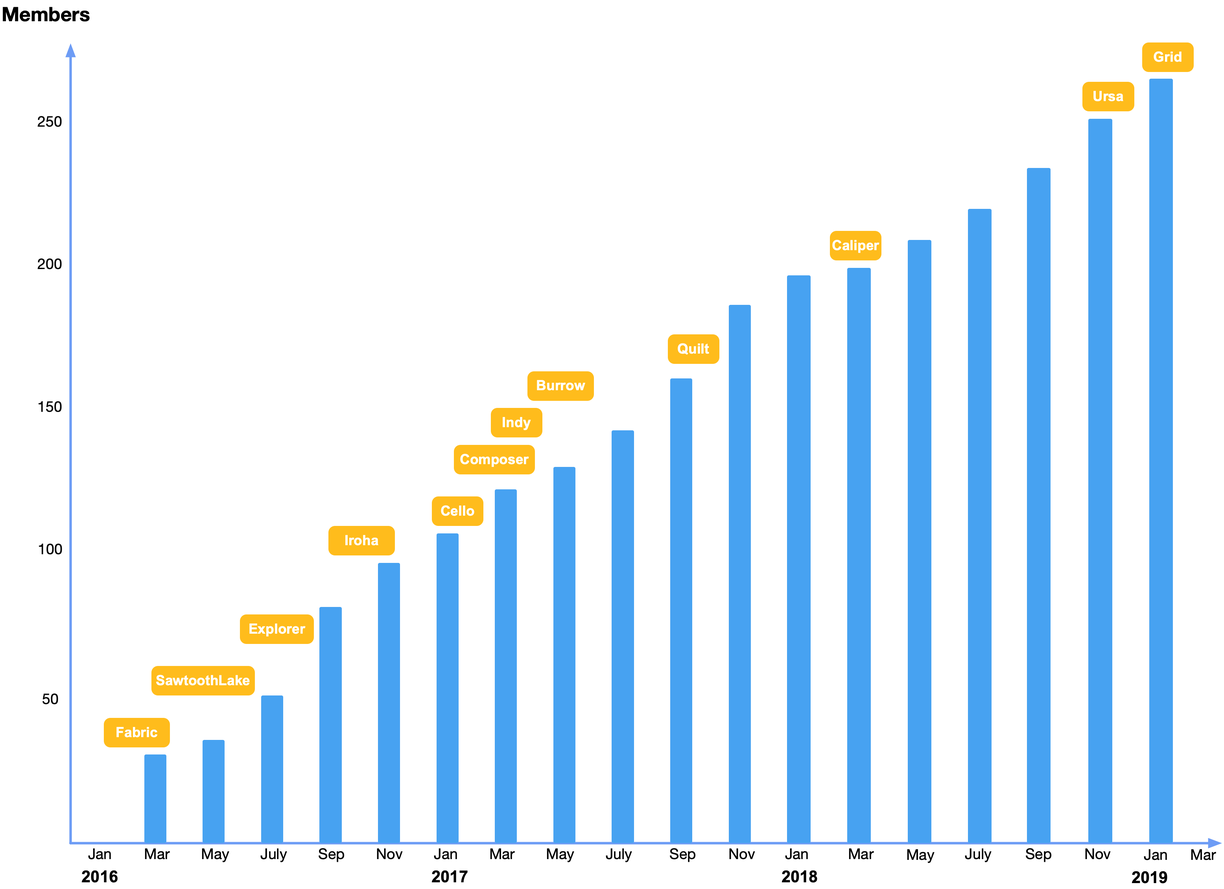
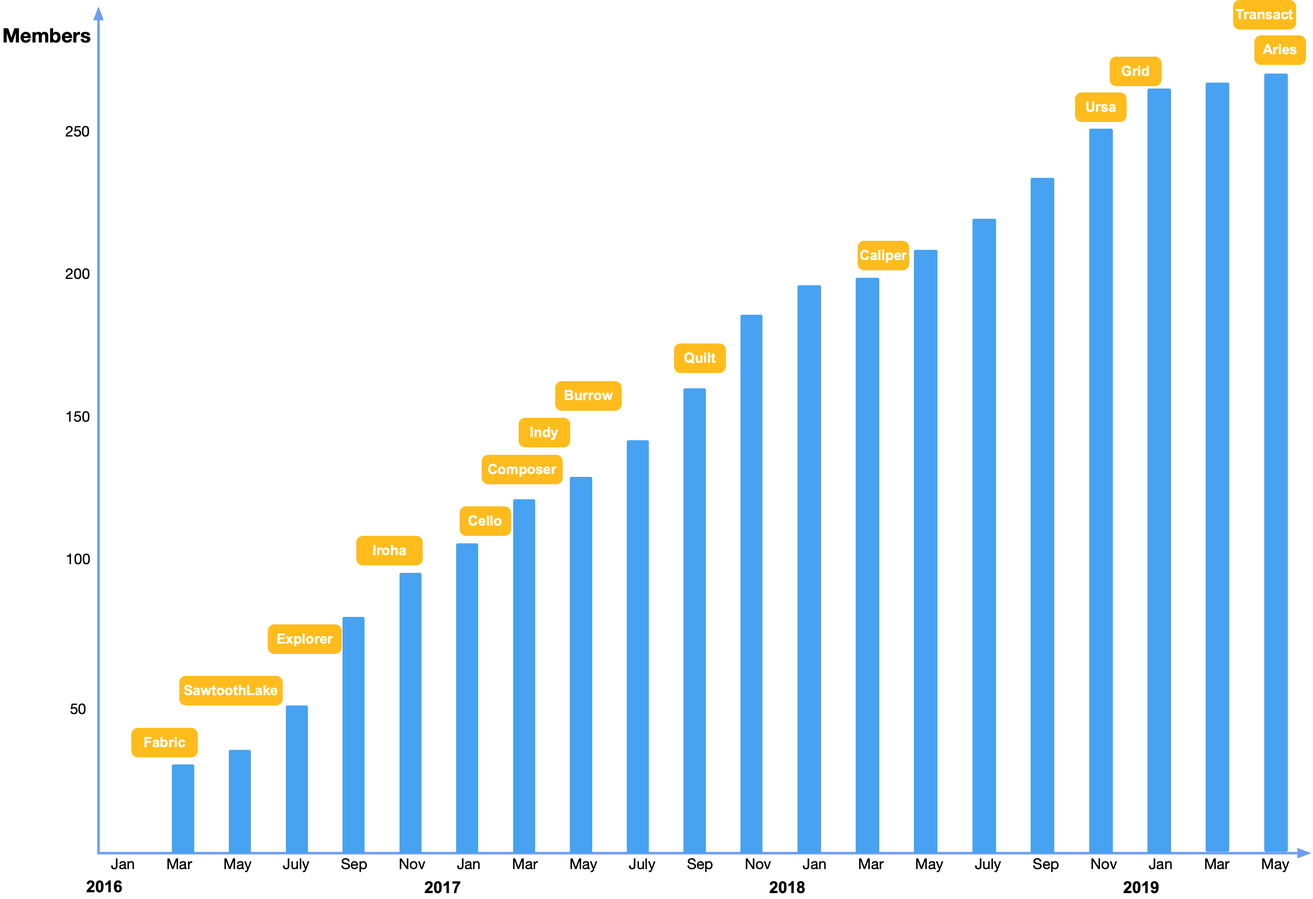
Update hyperledger community and projects

diff --git a/08_hyperledger/contribute.md b/08_hyperledger/contribute.md
@@ -1,54 +1,74 @@
 ## 贡献代码
 
-超级账本的各个子项目，都提供了十分丰富的开发和提交代码的指南和文档，一般可以在代码的 `docs` 目录下找到。部分项目（如 Fabric、Cello 和 Explorer）使用了社区自建的 Gerrit 代码管理和评审方案，其他项目多数直接使用 Github 来管理流程。
+超级账本的各个子项目，都提供了十分丰富的开发和提交代码的指南和文档，一般可以在代码的 `docs` 目录下找到。所有项目都使用 Github 来管理代码和进行集成测试。
 
-这里以 Gerrit 方式为例讲解如何贡献代码到 Fabric 项目。
+这里以 Fabric 项目为例讲解代码贡献流程。
 
 ### 安装环境
 
-推荐在 Linux（如 Ubuntu 18.04+）或 MacOS 环境中开发 Hyperledger 项目代码。
+推荐在 Linux（如 Ubuntu 18.04+）或 macOS 环境中开发 Hyperledger 项目代码。
 
-不同项目会依赖不同的环境，可以从项目文档中找到。以 Fabric 项目为例，开发需要安装如下依赖。
+不同项目会依赖不同的环境，可以从项目文档中找到。以 Fabric 项目为例，开发者需要安装如下依赖。
 
-* Git：用来从 Gerrit 仓库获取代码并进行版本管理。
-* Golang 1.10+：访问 golang.org 进行安装，之后需要配置 `$GOPATH` 环境变量。注意不同项目可能需要不同语言环境。
-* Docker 1.18+：用来支持容器环境，MacOS 下推荐使用 [Docker for Mac](https://docs.docker.com/docker-for-mac)。
+* Git：用来从代码仓库获取代码并进行版本管理；
+* Hub：Github 官方开发的基于 Git 命令的工具，可以替代 Git 命令，更方便操作 Github 仓库；
+* Golang 1.12+：访问 golang.org 进行安装，之后需要配置 `$GOPATH` 环境变量，注意不同项目可能需要不同语言环境；
+* Docker 1.18+：用来支持容器环境，macOS 下推荐使用 [Docker for Mac](https://docs.docker.com/docker-for-mac)。
+
+如果是首次使用 Git，可能还会提示配置默认的用户名和 Email 地址等信息。通过如下命令进行简单配置即可：
+
+```bash
+$ git config user.name "Your name"
+$ git config user.email "Your-addr@some-email-server"
+```
+
+安装 hub 工具，方便与 Github 的仓库进行交互。
+
+Linux 下可以直接从 https://github.com/github/hub/releases 下载工具使用。
+
+macOS 下可以通过 homebrew 工具来安装：
+
+```bash
+$ brew install hub
+```
 
 ### 获取代码
 
-首先注册 Linux Foundation ID（LF ID），如果没有可以到 https://identity.linuxfoundation.org/ 进行免费注册。
+如果没有 Linux Foundation（LF）ID，可通过 https://identity.linuxfoundation.org 免费注册。
 
-使用 LF ID 登陆 [https://gerrit.hyperledger.org/](https://gerrit.hyperledger.org/)，在配置页面（https://gerrit.hyperledger.org/r/#/settings/ssh-keys），添加个人 ssh Pub key，否则每次访问仓库需要手动输入用户名和密码。
+注册并登录 Github 个人账号，添加个人 ssh 公钥，否则每次访问仓库可能需要手动输入用户名和密码。
 
-查看项目列表，找到对应项目，采用 `Clone with commit-msg hook` 的方式来获取源码。
+开启双重验证（Two-factor authentication，2FA）后，在 https://github.com/hyperledger 页面申请加入到社区组织内。
 
-以 Fabric 项目为例，按照 Go 语言推荐代码结构，执行如下命令拉取代码，放到 `$GOPATH/src/github.com/hyperledger/` 路径下，其中 `LF_ID` 替换为用户个人的 Linux Foundation ID。
-
-```sh
-$ mkdir $GOPATH/src/github.com/hyperledger/
-$ cd $GOPATH/src/github.com/hyperledger/
-$ git clone ssh://LF_ID@gerrit.hyperledger.org:29418/fabric && scp -p -P 29418 LF_ID@gerrit.hyperledger.org:hooks/commit-msg fabric/.git/hooks/
-```
-
-如果没有添加个人 ssh pubkey，则可以通过 http 方式 clone，此时需要手动输入用户名和密码信息。
+如果是首次下载项目，则需要从官方仓库获取源码，然后 fork 到自己的仓库中：
 
 ```sh
-$ git clone http://LF_ID@gerrit.hyperledger.org/r/fabric && (cd fabric && curl -kLo `git rev-parse --git-dir`/hooks/commit-msg http://LF_ID@gerrit.hyperledger.org/r/tools/hooks/commit-msg; chmod +x `git rev-parse --git-dir`/hooks/commit-msg)
+$ hub clone https://github.com/hyperledger/<PROJECT>.git
+$ cd <PROJECT>
+$ hub fork --remote-name=origin
+$ git branch master --set-upstream-to origin/master
 ```
 
-如果是首次使用 Git，可能还会提示配置默认的用户名和 Email 地址等信息。通过如下命令进行简单配置即可。
+此时，项目下会包括两个仓库：
 
-```bash
-$ git config user.name "your name"
-$ git config user.email "your email"
-```
+* `origin` 仓库：会指向用户仓库。master 分支会追踪本仓库；
+* `upstream` 仓库：会指向官方仓库，供后续同步更新使用。
 
 ### 编译和测试
 
-大部分编译和安装过程都可以利用 Makefile 来执行，具体以项目代码为准。以 Fabric 项目为例，包括如下常见操作。
+大部分编译和安装过程都可以利用 Makefile 来执行，具体以项目代码为准。
+
+以 Fabric 项目为例，包括如下常见操作。
+
+#### 生成命令文档
+执行如下命令：
+
+```sh
+$ make help-docs
+```
 
 #### 安装 go tools
-执行如下命令。
+执行如下命令：
 
 ```sh
 $ make gotools
@@ -56,33 +76,39 @@ $ make gotools
 
 #### 语法格式检查
 
-执行如下命令。
+执行如下命令：
 
 ```sh
 $ make linter
 ```
 
-#### 编译 peer
+#### 编译二进制文件
 
-执行如下命令。
+执行如下命令：
+
+```sh
+$ make native
+```
+
+会自动生成 orderer、peer、configtxgen、configtxlator、cryptogen、doscover、idemixgen 等可执行文件。
+
+用户也可以使用对应的可执行文件名称来单独编译，例如，执行如下命令会自动编译生成 Docker 镜像，并生成本地 peer 可执行文件：
 
 ```sh
 $ make peer
 ```
 
-会自动编译生成 Docker 镜像，并生成本地 peer 可执行文件。
-
-*注意：有时候会因为获取安装包不稳定而报错，需要执行 `make clean`，然后再次执行。*
+*注意：有时会因网络不稳定而报错，可以进行 `make clean` 后再次执行。*
 
 #### 生成 Docker 镜像
-执行如下命令。
+执行如下命令：
 
 ```sh
-$ make images
+$ make docker
 ```
 
 #### 执行所有的检查和测试
-执行如下命令。
+执行如下命令：
 
 ```sh
 $ make checks
@@ -90,34 +116,25 @@ $ make checks
 
 #### 执行单元测试
 
-执行如下命令。 
+执行如下命令： 
 
 ```sh
 $ make unit-test
 ```
 
-如果要运行某个特定单元测试，则可以通过类似如下格式。
+如果要运行某个特定单元测试，则可以通过类似如下格式：
 
 ```sh
 $ go test -v -run=TestGetFoo
 ```
 
-#### 执行 BDD 测试
-需先生成本地 Docker 镜像。
-
-执行如下命令。 
-
-```sh
-$ make behave
-```
-
 ### 提交代码
 
-仍然使用 LF ID 登录 [jira.hyperledger.org](http://jira.hyperledger.org)，查看有没有未分配（unassigned）的任务，如果对某个任务感兴趣，可以添加自己为任务的 assignee。任何人都可以自行创建新的任务。
+使用 LF ID 登录 [jira.hyperledger.org](http://jira.hyperledger.org) 或 Github Issue，查看有没有未分配（unassigned）的任务，如果对某个任务感兴趣，可以添加自己为任务的 assignee。任何人都可以自行创建新的任务。如果是较大的特性，还需要先撰写 rfc 来描述设计，可以参考 https://github.com/hyperledger/fabric-rfcs。
 
 初始创建的任务处于 `TODO` 状态；开始工作后可以标记为 `In Progress` 状态；提交对应补丁后需要更新为 `In Review` 状态；任务完成后更新为 `Done` 状态。
 
-如果希望完成某个任务（如 FAB-XXX），则对于前面 Clone 下来的代码，本地创建新的分支 FAB-XXX。
+如果希望完成某个任务（如 FAB-XXX），则在 Clone 下来的代码上创建新的分支 FAB-XXX：
 
 ```sh
 $ git checkout -b FAB-XXX
@@ -125,13 +142,13 @@ $ git checkout -b FAB-XXX
 
 实现任务代码，完成后，执行语法格式检查和测试等，确保所有检查和测试都通过。
 
-提交代码到本地仓库。
+提交代码到本地仓库：
 
 ```sh
 $ git commit -a -s
 ```
 
-会自动打开一个编辑器窗口，需要填写 commit 信息，格式一般要求为：
+会自动打开一个编辑器窗口，需要填写 commit 信息，格式一般要求如下：
 
 ```bash
 [FAB-XXX] Quick brief on the change
@@ -145,38 +162,23 @@ patchset and potential remaining issues...
 
 提交消息中要写清楚所解决的问题、为何进行修改、主要改动内容、遗留问题等，并且首行宽不超过 50 个字符，详情段落行宽不要超过 72 个字符。
 
-如果是首次往官方仓库提交代码，需要先配置 `git review`，根据提示输入所需要的用户名密码等。
+将代码所在的分支推送到 Github 上自己的仓库中，例如：
 
 ```bash
-$ git review -s
+$ git push --set-upstream origin FAB-XXX
 ```
 
-验证通过后可以使用 git review 命令推送到远端仓库，推送成功后会得到补丁的编号和访问地址。
-
-```sh
-$ git review
-```
-
-例如：
+创建合并请求（Pull Request），例如：
 
 ```bash
-$ git review
-remote: Processing changes: new: 1, refs: 1, done
-remote:
-remote: New Changes:
-remote:   http://gerrit.hyperledger.org/r/YYY [FAB-XXX] Fix some problem
-remote:
-To ssh://gerrit.hyperledger.org:29418/fabric.git
- * [new branch]      HEAD -> refs/publish/master/FAB-XXX
+$ hub pull-request [-b upstream:master] [-r <REVIEWERS> ]
 ```
 
 ### 评审代码
 
-提交成功后，可以打开 [gerrit.hyperledger.org/r/](https://gerrit.hyperledger.org/r/)，查看自己最新提交的 patchset 信息。新提交的 patchset 会自动触发 CI 的测试任务，测试都通过后可邀请项目的维护者（maintainer）们进行评审。为了引起关注，可将链接添加到对应的 Jira 任务，并在 RocketChat 上的项目频道贴出。
+提交成功后，可以打开项目在 Github 上的页面，查看自己最新提交的合并请求。新提交的请求会自动触发 CI 的测试任务，测试都通过后可邀请项目的维护者（maintainer）进行评审。为了引起关注，可将链接添加到对应的 Jira 任务，并在 RocketChat 上对应项目频道内贴出。
 
-*注：手动触发某个 CI 测试任务可以通过 Run <Task> 命令，例如重新运行单元测试可以使用 Run UnitTest。*
-
-如果评审通过，则会被合并到主分支。否则还需要针对审阅意见进一步的修正。修正过程跟提交代码过程类似，唯一不同是提交的时候添加 `-a --amend` 参数。
+如果评审通过，则会被合并到主分支；否则还需要针对审阅意见进一步的修正。修正过程跟提交代码过程类似，唯一不同是，提交时需要添加 `-a --amend` 参数：
 
 ```sh
 $ git commit -a --amend
@@ -184,13 +186,21 @@ $ git commit -a --amend
 
 表示这个提交是对旧提交的一次修订。
 
-一般情况下，为了方便评审，尽量保证每个 patchset 完成的改动不要太多（最好不要超过 200 行），并且实现功能要明确，集中在对应 Jira 任务定义的范围内。
+一般情况下，为了方便评审，尽量保证每个 patchset 完成的改动不要太多（最好不要超过 5 个文件，200 行），并且实现功能要明确，集中在对应 Jira 任务定义的范围内。
+
+补丁被接收后可以删除对应的分支：
+
+```bash
+$ git fetch upstream master && git rebase FETCH_HEAD && git push -f origin
+$ git push -d origin issue-xxx
+$ git branch -d issue-xxx
+```
 
 ### 完整流程
 
 ![代码提交流程](_images/patchset-lifecycle.png)
 
-总结下，完整的流程如上图所示，开发者用 git 进行代码的版本管理，用 gerrit 进行代码的评审合作。
+总结一下，完整的流程如上图所示，开发者用 git 进行代码的版本管理，用 gerrit 进行代码的评审合作。
 
-如果需要修复某个提交补丁的问题，则通过 `git commit -a --amend` 进行修复，并作为补丁的新版本再次提交审阅。每次通过 `git review` 提交时，应当通过 `git log` 查看确保本地只有一条提交记录。
+如果需要修复某个提交补丁的问题，则通过 `git commit -a --amend` 进行修复，并作为补丁的新版本再次提交审阅。每次通过 `git review` 提交时，应当通过 `git log` 查看，确保本地只有一条提交记录。
 

diff --git a/08_hyperledger/intro.md b/08_hyperledger/intro.md
@@ -2,11 +2,11 @@
 
 ![超级账本项目](_images/hyperledger_logo.png)
 
-2015 年 12 月，开源世界的旗舰组织 —— [Linux 基金会](http://www.linuxfoundation.org) 牵头，联合 30 家初始企业成员（包括 IBM、Accenture、Intel、J.P.Morgan、R3、DAH、DTCC、FUJITSU、HITACHI、SWIFT、Cisco 等），共同 [宣布](https://www.hyperledger.org/news/announcement/2016/02/hyperledger-project-announces-30-founding-members) 了超级账本（Hyperledger）联合项目的成立。超级账本项目致力为透明、公开、去中心化的企业级分布式账本技术提供开源参考实现，并推动区块链和分布式账本相关协议、规范和标准的发展。项目官方网站为 [hyperledger.org](https://www.hyperledger.org)。
+2015 年 12 月，开源世界的旗舰组织 —— [Linux 基金会](http://www.linuxfoundation.org) 牵头，联合 30 家初始企业成员（包括 IBM、Accenture、Intel、J.P.Morgan、R3、DAH、DTCC、FUJITSU、HITACHI、SWIFT、Cisco 等），共同 [宣布](https://www.hyperledger.org/news/announcement/2016/02/hyperledger-project-announces-30-founding-members) 超级账本（Hyperledger）联合项目成立。超级账本项目致力为透明、公开、去中心化的企业级分布式账本技术提供开源参考实现，并推动区块链和分布式账本相关协议、规范和标准的发展。项目官方网站为 [hyperledger.org](https://www.hyperledger.org)。
 
 成立之初，项目就收到了众多开源技术贡献。IBM 贡献了 4 万多行已有的 [Open Blockchain](https://github.com/openblockchain) 代码，Digital Asset 贡献了企业和开发者相关资源，R3 贡献了新的金融交易架构，Intel 贡献了分布式账本相关的代码。  
 
-作为一个联合项目（Collaborative Project），超级账本由面向不同目的和场景的子项目构成。目前包括 Fabric、SawToothLake、Iroha、Blockchain Explorer、Cello、Indy、Composer、Burrow、Quilt、Caliper、Ursa、Grid 等 12 大顶级项目，所有项目都遵守 Apache v2 许可，并约定共同遵守如下的 [基本原则](https://github.com/hyperledger/hyperledger)：
+作为一个联合项目（Collaborative Project），超级账本由面向不同目的和场景的子项目构成。目前包括 Fabric、SawToothLake、Iroha、Blockchain Explorer、Cello、Indy、Composer、Burrow、Quilt、Caliper、Ursa、Grid、Transact、Aries、Besu、Avalon 等顶级项目，所有项目都遵守 Apache v2 许可，并约定共同遵守如下的 [基本原则](https://github.com/hyperledger/hyperledger)：
 
 * 重视模块化设计：包括交易、合同、一致性、身份、存储等技术场景；
 * 重视代码可读性：保障新功能和模块都可以很容易添加和扩展；
@@ -16,9 +16,9 @@
 
 ![Hyperledger 项目快速成长](_images/community_growth.png)
 
-社区目前拥有近 300 家全球知名企业和机构（大部分均为各自行业的领导者）会员，其中包括 60 多家来自中国本土的企业，最早期包括艾亿数融科技公司（[2016.05.19](https://www.hyperledger.org/news/announcement/2016/05/hyperledger-project-announces-addition-eight-new-members)）、Onchain（[2016.06.22](https://www.hyperledger.org/news/announcement/2016/06/hyperledger-projects-maintains-strong-momentum-new-members)）、比邻共赢（Belink）信息技术有限公司（2016.06.22）、BitSE（2016.06.22）等，另外还包括华为（[2016.10.24](https://www.hyperledger.org/announcements/2016/10/24/hyperledger-reaches-95-members-ahead-of-money2020)）、百度（2017.10.17）、腾讯（2018.01.25）等行业领军企业。此外，还有大量机构和高校成为超级账本联合会员，如英格兰银行、MIT 连接科学研究院、UCLA 区块链实验室、伊利诺伊区块链联盟、北京大学、浙江大学等。
+社区目前拥有近 300 家全球知名企业和机构（大部分均为各自行业的领导者）会员，其中包括 60 多家来自中国本土的企业，早期包括艾亿数融科技公司（[2016.05.19](https://www.hyperledger.org/news/announcement/2016/05/hyperledger-project-announces-addition-eight-new-members)）、Onchain（[2016.06.22](https://www.hyperledger.org/news/announcement/2016/06/hyperledger-projects-maintains-strong-momentum-new-members)）、比邻共赢（Belink）信息技术有限公司（2016.06.22）、BitSE（2016.06.22）等，另外还包括华为（[2016.10.24](https://www.hyperledger.org/announcements/2016/10/24/hyperledger-reaches-95-members-ahead-of-money2020)）、百度（2017.10.17）、腾讯（2018.01.25）等行业领军企业。此外，还有大量机构和高校成为超级账本联合会员，如英格兰银行、MIT 连接科学研究院、UCLA 区块链实验室、伊利诺伊区块链联盟、北京大学、浙江大学等。
 
-如果说比特币为代表的加密货币提供了区块链技术应用的原型，以太坊为代表的智能合约平台延伸了区块链技术的适用场景，那么面向企业场景的超级账本项目则开拓了区块链技术的全新阶段。它首次将区块链技术引入到了联盟账本的应用场景，引入权限控制和安全保障，这就为基于区块链技术的未来全球商业网络打下了坚实的基础。
+如果说比特币为代表的加密货币提供了区块链技术应用的原型，以太坊为代表的智能合约平台延伸了区块链技术的适用场景，那么面向企业场景的超级账本项目则开拓了区块链技术的全新阶段。超级账本首次将区块链技术引入到了联盟账本的应用场景，引入权限控制和安全保障，这就为基于区块链技术的未来全球商业网络打下了坚实的基础。
 
 超级账本项目的出现，实际上证实区块链技术已经不局限在单一应用场景中，也不限于完全开放匿名的公有链模式下，而是有更多的可能性，也说明区块链技术已经被主流企业市场正式认可和实践。同时，超级账本项目中提出和实现了许多创新的设计和理念，包括权限和审查管理、多通道、细粒度隐私保护、背书-共识-提交模型，以及可拔插、可扩展的实现框架，对于区块链相关技术和产业的发展都将产生十分深远的影响。
 

diff --git a/08_hyperledger/community.md b/08_hyperledger/community.md
@@ -1,10 +1,10 @@
 ## 社区组织结构
 
-每个成功的开源项目，都离不开一个健康开发、不断繁荣的社区生态。
+每个成功的开源项目都离不开一个健康开发、不断繁荣的社区生态。
 
 超级账本社区自成立之日起就借鉴了众多开源社区组织的经验，形成了技术开发为主体、积极结合应用的体系结构。
 
-超级账本社区的项目开发工作由技术委员会（Technical Steering Committee，TSC）指导，首任主席由来自 IBM 开源技术部门的 CTO Chris Ferris 担任；管理委员会主席则由来自 Digital Asset Holdings 的 CEO Blythe Masters 担任。另外，自 2016 年 5 月起，Apache 基金会创始人 Brian Behlendorf 担任超级账本项目的执行总监（Executive Director）。
+超级账本社区的项目开发工作由技术委员会（Technical Steering Committee，TSC）指导，首任主席Chris Ferris 来自 IBM ，是 IBM 开源技术部门的 CTO ；管理委员会主席则由来自 Digital Asset Holdings 的 CEO Blythe Masters 担任。另外，自 2016 年 5 月起，Apache 基金会创始人 Brian Behlendorf 担任超级账本项目的执行总监（Executive Director）。
 
 社区十分重视大中华地区的应用落地和开发情况，2016 年 12 月，[中国技术工作组](ttps://wiki.hyperledger.org/display/TWGC) 正式成立，负责推动社区组织建设和开源技术的发展和应用。
 
@@ -14,17 +14,15 @@
 
 社区目前主要是三驾马车领导的结构：
 
-* Technical Steering Committee
-（技术委员会）：负责领导社区技术，指导各个开源项目的发展方向，下设多个技术工作组（Architecture、Identity、Learning Materials Development、Performance and Scale、Smart Contracts）和兴趣小组（Healthcare、Public Sector、Social Impact、Telecom、Trade Finance）。每年由社区开发者进行换届选举；
-* Governing Board
-（管理董事会）：负责整体社区的组织决策，从超级账本会员中推选出代表座位成员；
+* Technical Steering Committee（技术委员会）：负责领导社区技术，指导各个开源项目的发展方向，下设多个技术工作组（如 Architecture、Identity、Learning Materials Development、Performance and Scale、Smart Contracts）和兴趣小组（如 Healthcare、Public Sector、Social Impact、Telecom、Trade Finance）。每年由社区开发者进行换届选举；
+* Governing Board（管理董事会）：负责整体社区的组织决策，从超级账本会员中推选出代表座位成员；
 * Linux Foundation（Linux 基金会）：负责基金管理和大型活动组织，协助社区在 Linux 基金会的支持下健康发展。
 
 ### 大中华区技术工作组
 
-随着开源精神和开源文化在中国的普及，越来越多的企业和组织开始意识到共建一个健康的生态系统的重要性，也愿意为开源事业做出一定贡献。
+随着开源精神和开源文化在中国的普及，越来越多的企业和组织开始意识到共建一个健康生态系统的重要性，也愿意为开源事业做出一定贡献。
 
-Linux 基金会和超级账本社区十分重视项目在大中华区的应用和落地情况，并希望能为开发者们贡献开源社区提供便利。在此背景下，超级账本首任执行董事 Brian Behlendorf 于 2016 年 12 月 1 日 [提议](https://lists.hyperledger.org/pipermail/hyperledger-tsc/2016-December/000504.html) 成立 [大中华区技术工作组（TWG-China）](https://wiki.hyperledger.org/groups/tsc/technical-working-group-china)，并得到了 TSC 成员们的一致支持和通过。笔者也有幸参与了工作组的创建，并担任联席主席。
+Linux 基金会和超级账本社区十分重视项目在大中华区的应用和落地情况，并希望能为开发者们贡献开源社区提供便利。在此背景下，超级账本首任执行董事 Brian Behlendorf 于 2016 年 12 月 1 日 [提议](https://lists.hyperledger.org/pipermail/hyperledger-tsc/2016-December/000504.html) 成立 [大中华区技术工作组（TWG-China）](https://wiki.hyperledger.org/groups/tsc/technical-working-group-china)，并得到了 TSC 成员们的一致支持和通过。笔者也有幸参与了工作组的创建，并担任首届联席主席。
 
 技术工作组的 [主要职责](https://docs.google.com/document/d/1sXVltDZxnlB5Srd1A-EW0jtTz7P2cDLG8JmgaAYvMzU) 包括：
 

diff --git a/08_hyperledger/README.md b/08_hyperledger/README.md
@@ -4,7 +4,7 @@
 
 超级账本（Hyperledger）项目是全球最大的开源企业级分布式账本平台。
 
-在 Linux 基金会的支持下，超级账本项目吸引了包括 IBM、Intel、Cisco、DAH、摩根大通、R3、甲骨文、百度、腾讯等在内的众多科技和金融巨头的参与贡献，以及在银行、供应链等领域的应用实践。成立两年多时间以来，超级账本得到了广泛的关注和飞速的发展，目前囊括十大顶级项目，拥有近三百家企业会员。超级账本的开源代码和技术，也成为分布式账本领域的首选。
+在 Linux 基金会的支持下，超级账本项目吸引了包括 IBM、Intel、Cisco、DAH、摩根大通、R3、甲骨文、百度、腾讯等在内的众多科技和金融巨头的参与贡献，以及在银行、供应链等领域的应用实践。成立两年多时间以来，超级账本得到了广泛的关注和飞速发展，目前囊括十大顶级项目，拥有近三百家企业会员。超级账本的开源代码和技术，也成为分布式账本领域的首选。
 
 本章将介绍超级账本项目的发展历史和社区组织，以及旗下的多个顶级开源项目的情况，还将展示开源社区提供的多个高效开发工具。最后介绍如何参与到超级账本项目中，进行代码贡献。
 

diff --git a/revision.md b/revision.md
@@ -2,6 +2,7 @@
 
 * 1.4.0: 2020-XX-YY
   * Refine deployment fabric with v2.0 version;
+  * Update hyperledger community and projects;
 
 * 1.3.0: 2019-12-31
   * Add more crypto techniques;
